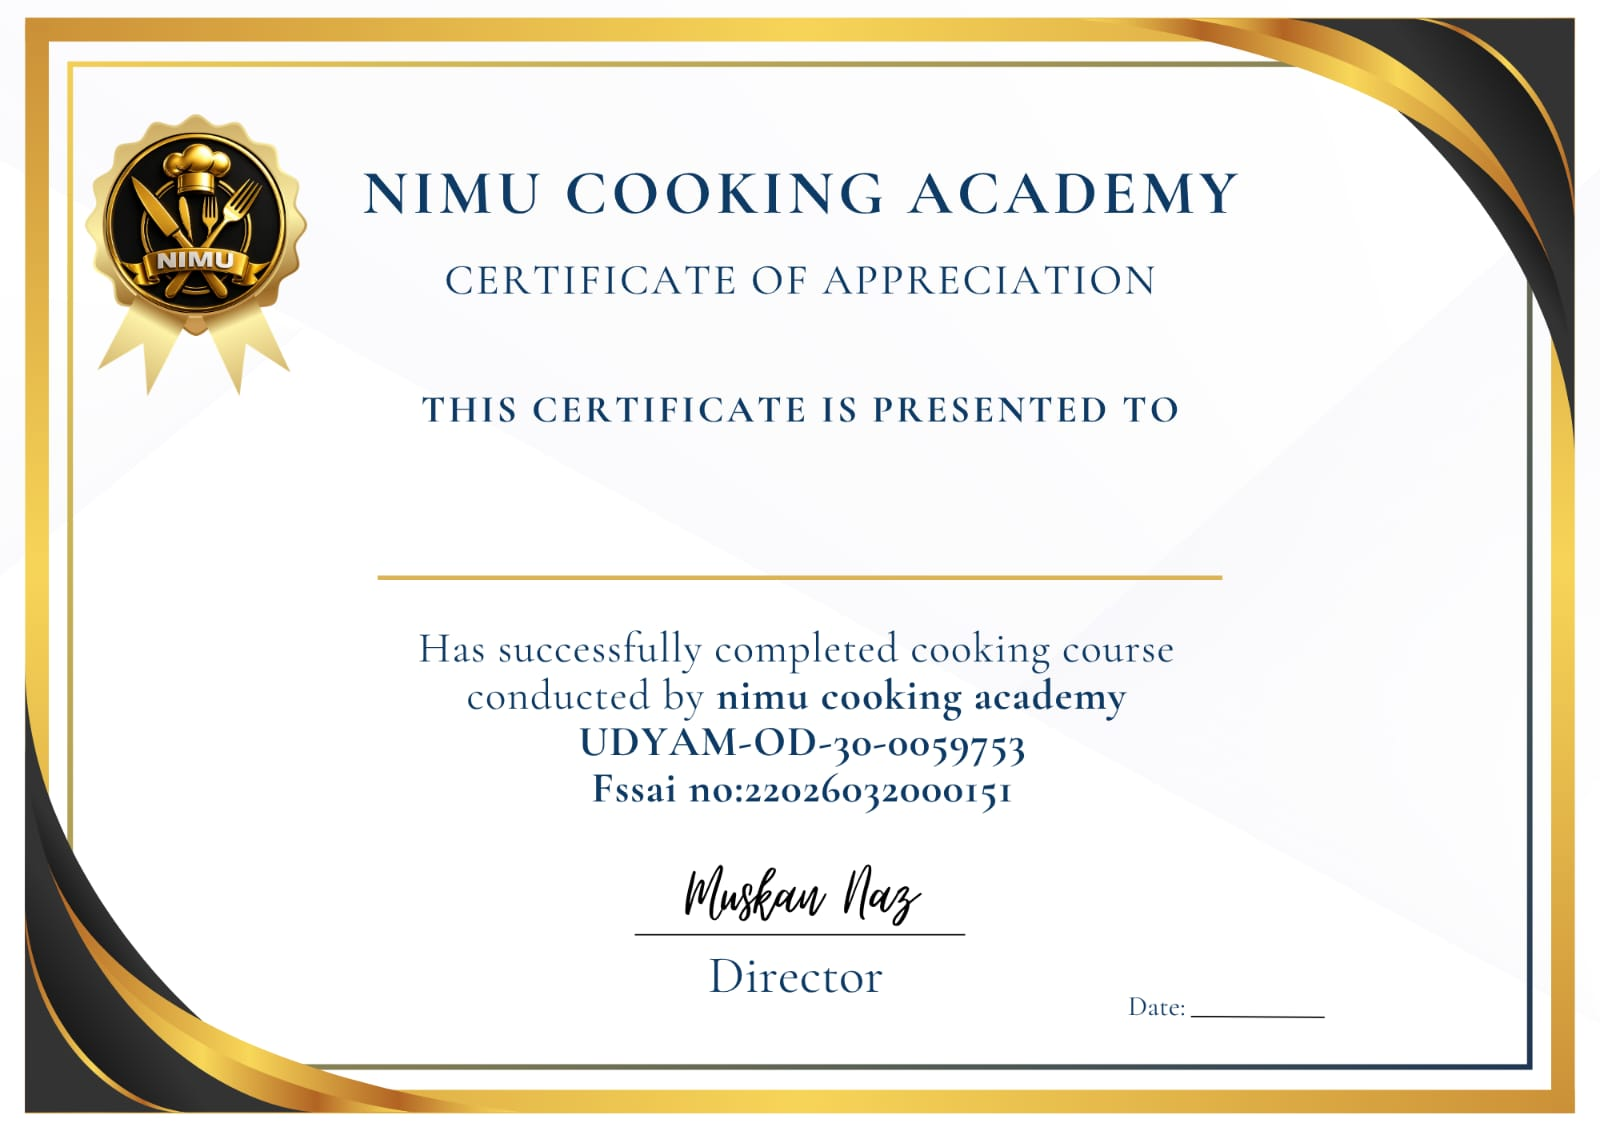
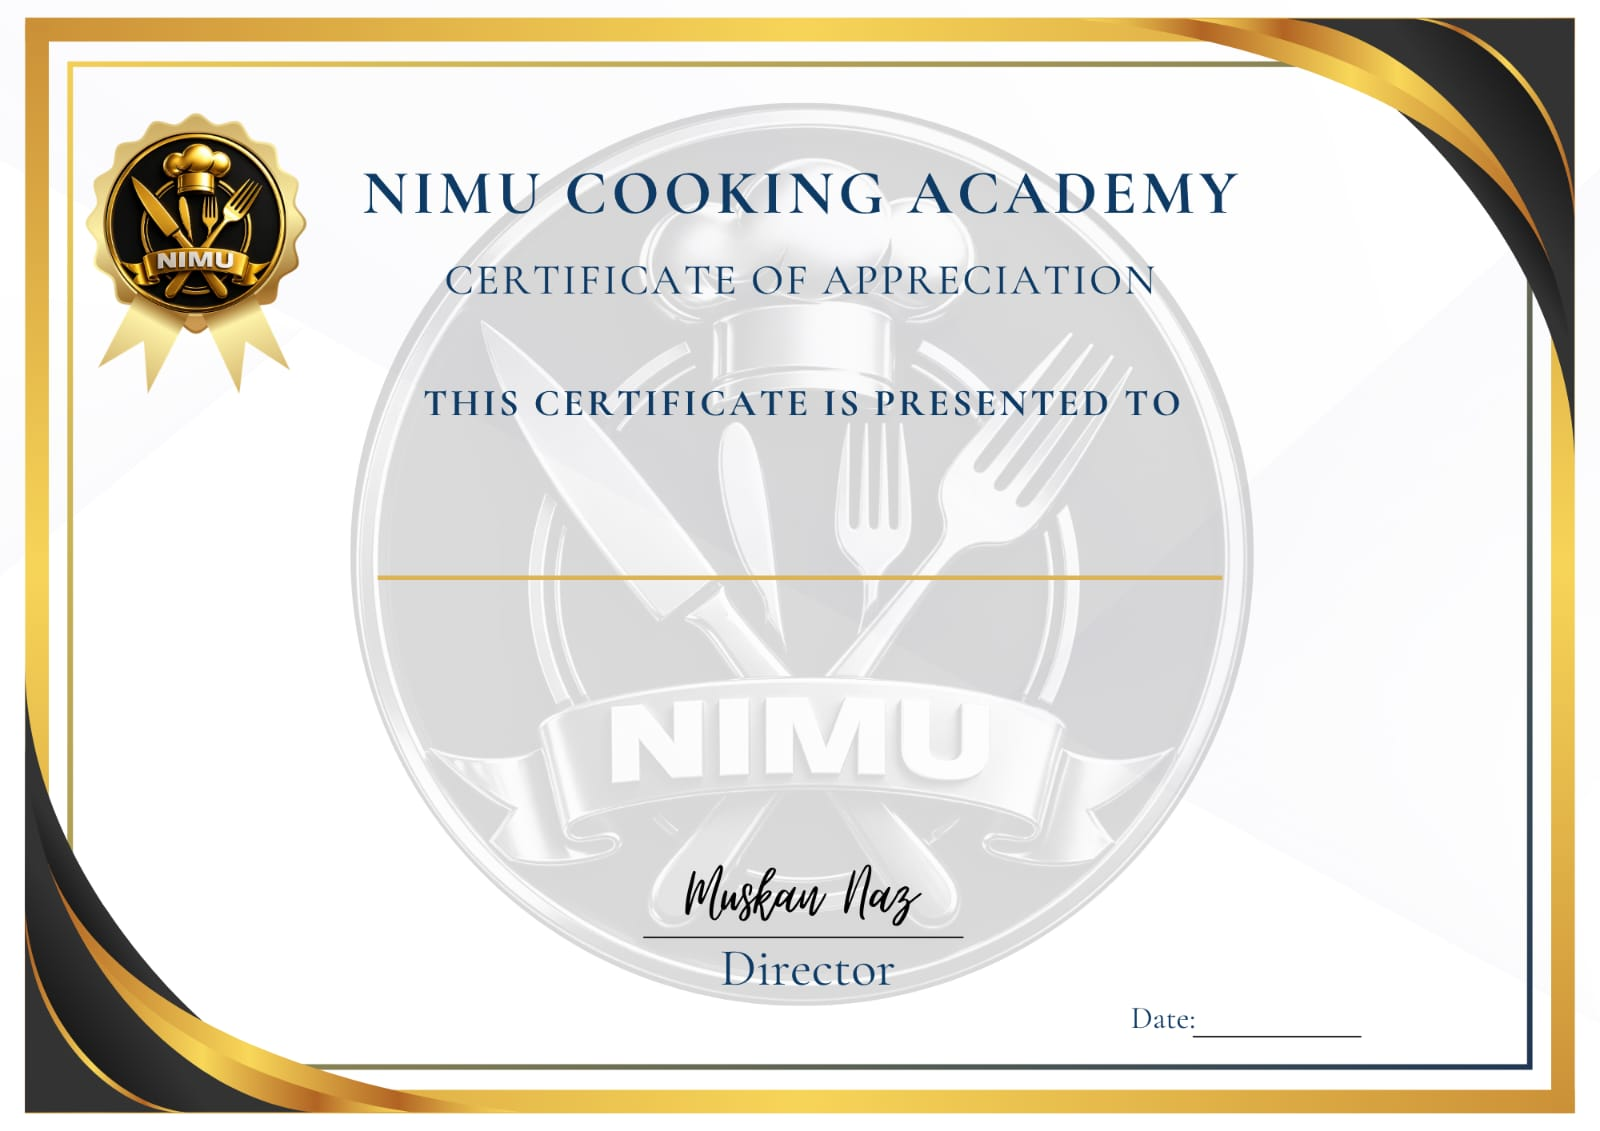
new commit

diff --git a/Client/src/components/CertificateDownloader.tsx b/Client/src/components/CertificateDownloader.tsx
@@ -141,9 +141,9 @@ const CertificateDownloader: React.FC<CertificateProps> = ({
             transformOrigin: 'top left',
           }}
         >
-          {/* Load cursive font for student name & Poppins for date */}
+          {/* Load fonts: Great Vibes (student name cursive), Lora (body text matching template), Poppins (date) */}
           <style>{`
-            @import url('https://fonts.googleapis.com/css2?family=Great+Vibes&family=Poppins:wght@400;500;600&display=swap');
+            @import url('https://fonts.googleapis.com/css2?family=Great+Vibes&family=Lora:wght@400;500;600;700&family=Poppins:wght@400;500;600&display=swap');
             .cert-name { font-family: 'Great Vibes', cursive; }
           `}</style>
 
@@ -169,15 +169,47 @@ const CertificateDownloader: React.FC<CertificateProps> = ({
             </span>
           </div>
 
+          {/* ── Course / Registration Details ──
+              Below gold divider line, matching the template's printed body text.
+              Lines: "Has successfully completed [course] course
+                      conducted by nimu cooking academy
+                      UDYAM-OD-30-0059753
+                      Fssai no:22026032000151"                                  */}
+          <div
+            className="absolute left-0 w-full flex flex-col items-center"
+            style={{
+              top: '430px',
+              fontFamily: "'Lora', serif",
+              color: '#2a3f5f',
+              textAlign: 'center',
+              lineHeight: 1.55,
+            }}
+          >
+            <p style={{ fontSize: '22px', fontWeight: 500, margin: 0 }}>
+              Has successfully completed{' '}
+              <span style={{ fontWeight: 700 }}>{courseName}</span>{' '}
+              course
+            </p>
+            <p style={{ fontSize: '22px', fontWeight: 500, margin: 0 }}>
+              conducted by <span style={{ fontWeight: 700 }}>nimu cooking academy</span>
+            </p>
+            <p style={{ fontSize: '20px', fontWeight: 700, margin: '4px 0 0' }}>
+              UDYAM-OD-30-0059753
+            </p>
+            <p style={{ fontSize: '20px', fontWeight: 700, margin: '2px 0 0' }}>
+              Fssai no:22026032000151
+            </p>
+          </div>
+
 
           {/* ── Date ──
               Bottom-right corner, landing on the "Date: ____" underline in the template. */}
           <div
             className="absolute"
             style={{
-              bottom: '84px',
-              right: '195px',
-              fontSize: '14px',
+              bottom: '73px',
+              right: '179px',
+              fontSize: '15px',
               color: '#3f5a73',
               fontWeight: 500,
               fontFamily: "'Poppins', sans-serif",

diff --git a/Client/src/components/AdminStudentPanel.tsx b/Client/src/components/AdminStudentPanel.tsx
@@ -217,7 +217,7 @@ const AdminStudentPanel: React.FC = () => {
             />
             <motion.div
               initial={{ scale: 0.9, opacity: 0 }} animate={{ scale: 1, opacity: 1 }} exit={{ scale: 0.9, opacity: 0 }}
-              className="relative bg-brand-dark border border-brand-gold/20 p-8 rounded-[2rem] w-full max-w-xl shadow-2xl"
+              className="relative bg-brand-dark border border-brand-gold/20 p-6 md:p-8 rounded-[2rem] w-full max-w-xl shadow-2xl max-h-[90dvh] overflow-y-auto"
             >
               <button onClick={() => setShowAddForm(false)} className="absolute right-6 top-6 text-brand-cream/30 hover:text-white">
                 <X size={24} />
@@ -277,6 +277,7 @@ const AdminStudentPanel: React.FC = () => {
                     <input
                       required type="date"
                       className="w-full bg-white/5 border border-white/10 rounded-xl py-4 pl-12 pr-4 outline-none focus:border-brand-gold/50 text-brand-cream"
+                      style={{ colorScheme: 'dark' }}
                       value={newStudent.completion_date}
                       onChange={e => setNewStudent({ ...newStudent, completion_date: e.target.value })}
                     />

diff --git a/Client/index.html b/Client/index.html
@@ -8,7 +8,7 @@
     <link rel="apple-touch-icon" href="/logo-round.png" />
     <link rel="preconnect" href="https://fonts.googleapis.com">
     <link rel="preconnect" href="https://fonts.gstatic.com" crossorigin>
-    <link href="https://fonts.googleapis.com/css2?family=Great+Vibes&family=Poppins:wght@400;500;600;700&display=swap" rel="stylesheet">
+    <link href="https://fonts.googleapis.com/css2?family=Great+Vibes&family=Lora:wght@400;500;600;700&family=Poppins:wght@400;500;600;700&display=swap" rel="stylesheet">
   </head>
   <body>
     <div id="root"></div>
